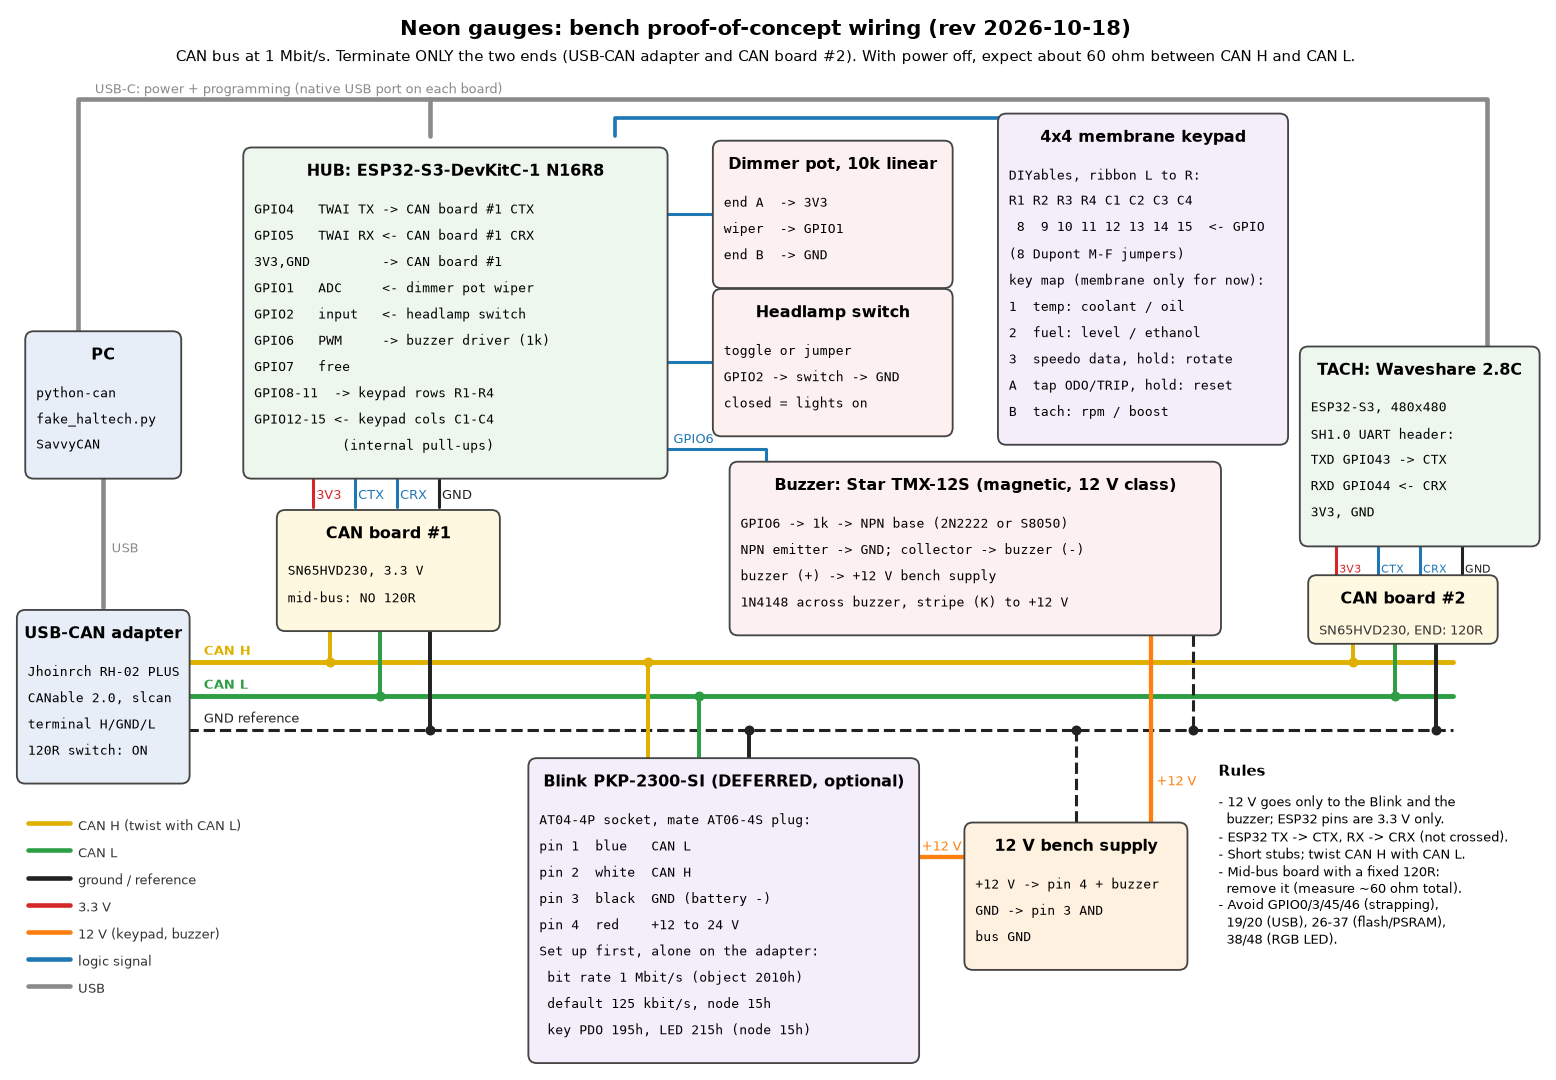
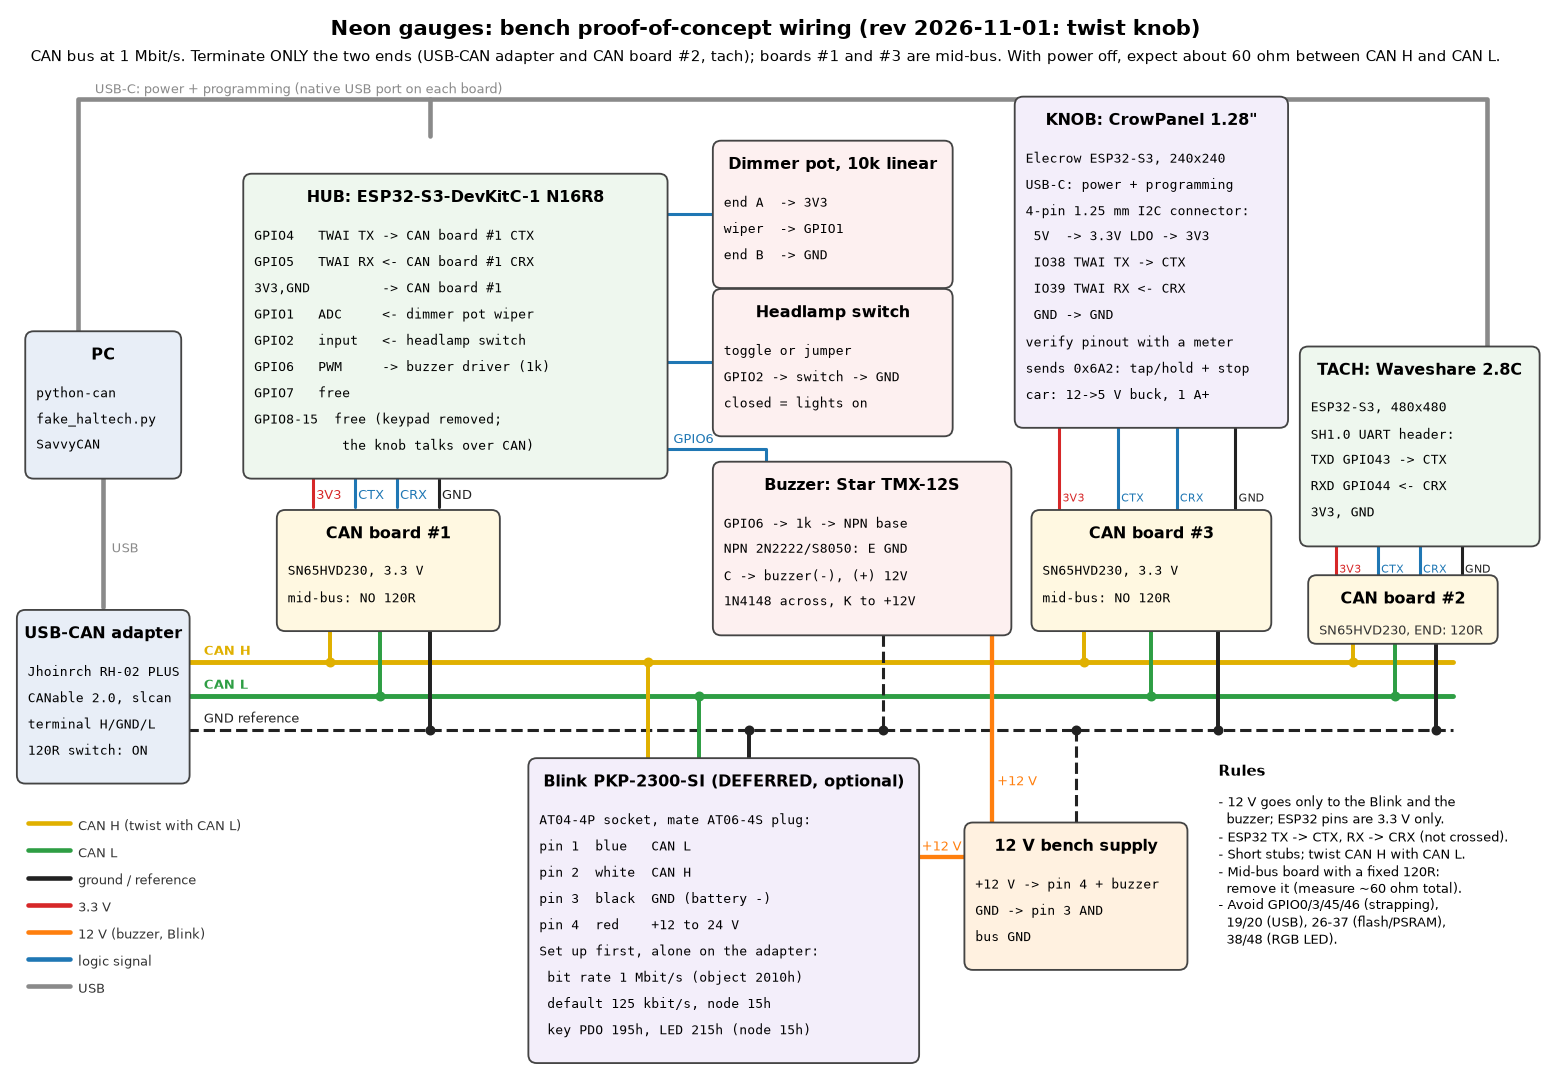
Bench wiring: twist knob (CAN board #3) replaces the membrane keypad

diff --git a/tools/bench/wiring_diagram.py b/tools/bench/wiring_diagram.py
@@ -1,4 +1,5 @@
-"""Bench PoC wiring diagram (rev 2026-10-18): buzzer driver on GPIO6 added; PC + USB-CAN adapter as fake Haltech; hub (ESP32-S3-DevKitC-1) with
+"""Bench PoC wiring diagram (rev 2026-11-01: the CrowPanel 1.28in twist knob replaces the 4x4 membrane keypad; it joins the CAN bus mid-bus
+through CAN board #3 on its I2C connector, GPIO38/39 as TWAI). Earlier (rev 2026-10-18): buzzer driver on GPIO6 added; PC + USB-CAN adapter as fake Haltech; hub (ESP32-S3-DevKitC-1) with
 4x4 membrane keypad (all keys, owner 2026-10-16), dimmer pot, headlamp switch; Blink PKP-2300-SI deferred (optional);
 no VSS loopback: speed and distance now come from the Haltech (0x370, 0x6F6); 2.8C tach at the far end."""
 import matplotlib; matplotlib.use('Agg')
@@ -18,8 +19,8 @@ def wire(pts,c,lw=2.2,ls='-'):
 def dot(x,y,c): ax.plot(x,y,'o',c=c,ms=5.5,zorder=3)
 def lab(x,y,t,c='#333',**k):
     k.setdefault('fontsize',8.2); ax.text(x,y,t,color=c,zorder=4,**k)
-ax.text(90,124,'Neon gauges: bench proof-of-concept wiring (rev 2026-10-18)',ha='center',va='top',fontsize=14,weight='bold')
-ax.text(90,120.3,'CAN bus at 1 Mbit/s. Terminate ONLY the two ends (USB-CAN adapter and CAN board #2). With power off, expect about 60 ohm between CAN H and CAN L.',ha='center',va='top',fontsize=9.5)
+ax.text(90,124,'Neon gauges: bench proof-of-concept wiring (rev 2026-11-01: twist knob)',ha='center',va='top',fontsize=14,weight='bold')
+ax.text(90,120.3,'CAN bus at 1 Mbit/s. Terminate ONLY the two ends (USB-CAN adapter and CAN board #2, tach); boards #1 and #3 are mid-bus. With power off, expect about 60 ohm between CAN H and CAN L.',ha='center',va='top',fontsize=9.5)
 # CAN trunk
 YH,YL,YG=48,44,40; X0,X1=21,172
 wire([(X0,YH),(X1,YH)],C['h'],3.2); wire([(X0,YL),(X1,YL)],C['l'],3.2); wire([(X0,YG),(X1,YG)],C['g'],2,'--')
@@ -34,7 +35,7 @@ wire([(8,87.3),(8,114.5),(50,114.5),(50,110.2)],C['usb'],3); lab(10,115.2,'USB-C
 top=box(28,70,50,'HUB: ESP32-S3-DevKitC-1 N16R8',(
  'GPIO4   TWAI TX -> CAN board #1 CTX','GPIO5   TWAI RX <- CAN board #1 CRX','3V3,GND         -> CAN board #1',
  'GPIO1   ADC     <- dimmer pot wiper','GPIO2   input   <- headlamp switch','GPIO6   PWM     -> buzzer driver (1k)',
- 'GPIO7   free','GPIO8-11  -> keypad rows R1-R4','GPIO12-15 <- keypad cols C1-C4','           (internal pull-ups)'),'#eef7ee')
+ 'GPIO7   free','GPIO8-15  free (keypad removed;','           the knob talks over CAN)'),'#eef7ee')
 # CAN board 1
 box(32,52,26,'CAN board #1',('SN65HVD230, 3.3 V','mid-bus: NO 120R'),'#fff8e1')
 for x,c,t in ((36,'v3','3V3'),(41,'sig','CTX'),(46,'sig','CRX'),(51,'g','GND')):
@@ -44,8 +45,12 @@ for x,y,c in ((38,YH,'h'),(44,YL,'l'),(50,YG,'g')): wire([(x,52),(x,y)],C[c],2.6
 yb=box(84,92.5,28,'Dimmer pot, 10k linear',('end A  -> 3V3','wiper  -> GPIO1','end B  -> GND'),'#fdf0f0')
 box(84,75,28,'Headlamp switch',('toggle or jumper','GPIO2 -> switch -> GND','closed = lights on'),'#fdf0f0')
 wire([(78,101),(84,101)],C['sig'],2); wire([(78,83.5),(84,83.5)],C['sig'],2)
-mtop=box(118,74,34,'4x4 membrane keypad',('DIYables, ribbon L to R:','R1 R2 R3 R4 C1 C2 C3 C4',' 8  9 10 11 12 13 14 15  <- GPIO','(8 Dupont M-F jumpers)','key map (membrane only for now):','1  temp: coolant / oil','2  fuel: level / ethanol','3  speedo data, hold: rotate','A  tap ODO/TRIP, hold: reset','B  tach: rpm / boost'),'#f3eefa')
-wire([(72,110.2),(72,112.3),(135,112.3),(135,mtop)],C['sig'],2.4)
+ktop=box(120,76,32,'KNOB: CrowPanel 1.28"',('Elecrow ESP32-S3, 240x240','USB-C: power + programming','4-pin 1.25 mm I2C connector:',' 5V  -> 3.3V LDO -> 3V3',' IO38 TWAI TX -> CTX',' IO39 TWAI RX <- CRX',' GND -> GND','verify pinout with a meter','sends 0x6A2: tap/hold + stop','car: 12->5 V buck, 1 A+'),'#f3eefa')
+wire([(137,114.5),(137,ktop)],C['usb'],3)
+box(122,52,28,'CAN board #3',('SN65HVD230, 3.3 V','mid-bus: NO 120R'),'#fff8e1')
+for x,c,t in ((125,'v3','3V3'),(132,'sig','CTX'),(139,'sig','CRX'),(146,'g','GND')):
+    wire([(x,76),(x,65.9)],C[c],2); lab(x+0.4,67.0,t,C[c],fontsize=7.2)
+for x,y,c in ((128,YH,'h'),(136,YL,'l'),(144,YG,'g')): wire([(x,52),(x,y)],C[c],2.6); dot(x,y,C[c])
 # tach
 ttop=box(154,62,28,'TACH: Waveshare 2.8C',('ESP32-S3, 480x480','SH1.0 UART header:','TXD GPIO43 -> CTX','RXD GPIO44 <- CRX','3V3, GND'),'#eef7ee')
 wire([(50,114.5),(176,114.5),(176,ttop)],C['usb'],3)
@@ -60,12 +65,12 @@ box(114,12,26,'12 V bench supply',('+12 V -> pin 4 + buzzer','GND -> pin 3 AND',
 wire([(114,25),(108,25)],C['v12'],2.8); lab(108.6,25.8,'+12 V',C['v12'])
 wire([(127,29.2),(127,YG)],C['g'],2,'--'); dot(127,YG,C['g'])
 # buzzer driver (2026-10-18)
-bt=box(86,51.5,58,'Buzzer: Star TMX-12S (magnetic, 12 V class)',('GPIO6 -> 1k -> NPN base (2N2222 or S8050)','NPN emitter -> GND; collector -> buzzer (-)','buzzer (+) -> +12 V bench supply','1N4148 across buzzer, stripe (K) to +12 V'),'#fdf0f0')
+bt=box(84,51.5,35,'Buzzer: Star TMX-12S',('GPIO6 -> 1k -> NPN base','NPN 2N2222/S8050: E GND','C -> buzzer(-), (+) 12V','1N4148 across, K to +12V'),'#fdf0f0')
 wire([(78,73.2),(90,73.2),(90,bt)],C['sig'],2); lab(79,73.9,'GPIO6',C['sig'])
-wire([(136,29.2),(136,51.2)],C['v12'],2.8); lab(136.6,33.5,'+12 V',C['v12'])
-wire([(141,51.2),(141,YG)],C['g'],2,'--'); dot(141,YG,C['g'])
+wire([(117,29.2),(117,51.2)],C['v12'],2.8); lab(117.6,33.5,'+12 V',C['v12'])
+wire([(104,51.2),(104,YG)],C['g'],2,'--'); dot(104,YG,C['g'])
 # legend + rules
-for i,(k,t) in enumerate((('h','CAN H (twist with CAN L)'),('l','CAN L'),('g','ground / reference'),('v3','3.3 V'),('v12','12 V (keypad, buzzer)'),('sig','logic signal'),('usb','USB'))):
+for i,(k,t) in enumerate((('h','CAN H (twist with CAN L)'),('l','CAN L'),('g','ground / reference'),('v3','3.3 V'),('v12','12 V (buzzer, Blink)'),('sig','logic signal'),('usb','USB'))):
     y=29-i*3.2; wire([(2,y),(7,y)],C[k],3); lab(8,y-0.8,t)
 ax.text(144,36,'Rules',fontsize=10,weight='bold',va='top')
 ax.text(144,32.5,'- 12 V goes only to the Blink and the\n  buzzer; ESP32 pins are 3.3 V only.\n- ESP32 TX -> CTX, RX -> CRX (not crossed).\n- Short stubs; twist CAN H with CAN L.\n- Mid-bus board with a fixed 120R:\n  remove it (measure ~60 ohm total).\n- Avoid GPIO0/3/45/46 (strapping),\n  19/20 (USB), 26-37 (flash/PSRAM),\n  38/48 (RGB LED).',fontsize=8.3,va='top',linespacing=1.35)

diff --git a/docs/bench/POC-WIRING.md b/docs/bench/POC-WIRING.md
@@ -1,4 +1,4 @@
-# Bench PoC wiring (rev 2026-10-18)
+# Bench PoC wiring (rev 2026-11-01: twist knob replaces the membrane keypad)
 
 Diagram: `docs/bench/poc_wiring.png` (generated by `tools/bench/wiring_diagram.py`).
 
@@ -8,18 +8,33 @@ Diagram: `docs/bench/poc_wiring.png` (generated by `tools/bench/wiring_diagram.p
 |---|---|---|
 | 4 | TWAI TX | CAN board #1 CTX |
 | 5 | TWAI RX | CAN board #1 CRX |
-| 3V3 / GND | power | CAN board #1, pot ends, keypad common |
+| 3V3 / GND | power | CAN board #1, pot ends |
 | 1 | ADC (dimmer) | bench: pot wiper, pot ends to 3V3 and GND. Car: headlamp-switch dimmer output via a 47k/10k divider (below) |
 | 2 | input, active low (10 kohm pull-up to 3V3) | bench: switch to GND (closed = lights on). Car: PC817 optocoupler from the park-lamp feed (below) |
 | 6 | LEDC PWM out (buzzer) | 1 kohm to the NPN base of the buzzer driver (below) |
 | 7 | input, active low (10 kohm pull-up) | car: ignition sense, PC817 from the RUN/START feed (Power latch, below). Bench: free |
-| 8, 9, 10, 11 | membrane keypad rows R1–R4 | ribbon pins 1–4 |
-| 12, 13, 14, 15 | membrane keypad cols C1–C4, internal pull-ups | ribbon pins 5–8 |
+| 8–15 | free (membrane keypad removed 2026-11-01) | — |
 | USB-C (native) | power + flashing | PC |
 
 Avoid: GPIO0/3/45/46 (strapping), 19/20 (USB), 26–37 (flash/octal PSRAM on N16R8), 38/48 (RGB LED, depends on board revision).
 
-Membrane keypad map (owner 2026-10-16: everything on the membrane pad for now; the Blink is deferred): 1 = temp coolant/oil, 2 = fuel level/ethanol, 3 = speedo data face (tap toggles stock/data face, hold 2 s on the data face rotates the order up, a hold on the stock face does nothing; replaces the overlay idea), A = trip key (tap toggles ODO/TRIP, hold 2 s resets the trip only), B = tach rpm/boost. The rest are spare. Ribbon order R1..R4, C1..C4 is the common layout for these pads; confirm with a meter (press a key, find the row/col pair).
+## Knob: Elecrow CrowPanel 1.28" rotary (replaces the membrane keypad, owner 2026-11-01)
+
+The knob joins the CAN bus mid-bus through **CAN board #3** (SN65HVD230, no 120R), wired to its 4-pin 1.25 mm I2C connector:
+
+| Knob connector | Use | Connects to |
+|---|---|---|
+| 5V | supply out | 5 V to 3.3 V LDO input; the LDO's 3.3 V output feeds CAN board #3 3V3 (the connector carries 5 V, not 3.3 V) |
+| IO38 (SDA) | TWAI TX | CAN board #3 CTX |
+| IO39 (SCL) | TWAI RX | CAN board #3 CRX |
+| GND | ground | CAN board #3 GND, LDO GND |
+
+- **Verify first:** check the connector pinout with a meter before wiring. The order above isn't confirmed from Elecrow.
+- **Bench power:** the knob runs from USB-C, which is also how it's programmed. In the car, a 12-to-5 V buck (1 A or more) feeds it.
+- **What it sends:** knob events go out as 0x6A2 (tap or hold, plus the selected stop); the hub answers with 0x6A1 (`docs/CAN-MAP.md`). The UI is in `docs/BEHAVIOR.md`.
+- **Bus order:** USB-CAN adapter (120R) -> CAN board #1 (hub) -> [Blink, deferred] -> CAN board #3 (knob) -> CAN board #2 (tach, 120R). Power off: about 60 ohm between H and L.
+
+Former membrane keypad map (retired 2026-11-01, kept for reference): (owner 2026-10-16: everything on the membrane pad for now; the Blink is deferred): 1 = temp coolant/oil, 2 = fuel level/ethanol, 3 = speedo data face (tap toggles stock/data face, hold 2 s on the data face rotates the order up, a hold on the stock face does nothing; replaces the overlay idea), A = trip key (tap toggles ODO/TRIP, hold 2 s resets the trip only), B = tach rpm/boost. The rest are spare. Ribbon order R1..R4, C1..C4 is the common layout for these pads; confirm with a meter (press a key, find the row/col pair).
 
 ## Buzzer: Star Micronics TMX-12S (owner part, marked "TMX-12S 96D")
 

diff --git a/docs/PLAN.md b/docs/PLAN.md
@@ -71,6 +71,7 @@ Status: Phase 0 (discovery). Prepared 2026-10-12. Rev 2: decisions log added (se
 | 2026-10-26 | Tach demo startup animation (owner GIF, demo only; the production startup spec in BEHAVIOR.md is unchanged). Power-on only: fade in 0.5 s, 480 x 360 GIF centred at native size (corners clipped by the round screen, not scaled), at 9 s fade to black over 0.5 s, then the face fades up over 1 s. Fades use the backlight. The GIF (7.1 MB, 116 frames, 7.74 s) is embedded in flash and decoded on the board with the AnimatedGIF library. It needs Partition Scheme Custom (sketch `partitions.csv`, 15 MB app); the sketch is 7.7 MB. Compiles; decode speed on the S3 is not yet measured on hardware (the serial log prints frames and ms). |
 | 2026-10-26 | Tach demo startup GIF revised (owner): cut before the white "neon" card. Frames 0-93 kept (ends on the white car "Hi." frame, 6.27 s); a byte-level cut, no re-encode, 5.9 MB. It plays once, then a 0.3 s fade to black and the face fades up over 1 s. This replaces the 9 s timing and the looping. The original is kept as `firmware/tach-demo/startup_original.gif`. Sketch 6.5 MB; compiles. |
 | 2026-10-26 | Tach demo startup GIF: zoomed x1.33 to fill the full 480 px height (owner: no black bars, losing the sides is accepted). Nearest-pixel scaling on the board, centred; about 60 source px cropped per side. |
+| 2026-11-01 | Owner: all demos done. Bench wiring diagram regenerated with the CrowPanel 1.28" twist knob in place of the 4x4 membrane keypad (`tools/bench/wiring_diagram.py`, `docs/bench/poc_wiring.png`, `docs/bench/POC-WIRING.md`). The knob is mid-bus via CAN board #3 on its I2C connector (IO38 TWAI TX, IO39 TWAI RX; connector 5 V -> 3.3 V LDO -> transceiver; pinout to be verified with a meter); USB-C power on the bench. Hub GPIO8-15 freed. |
 
 ### 0.1 Speed source options (in preference order)
 CHOSEN 2026-10-16: option 1, with distance from Haltech Trip Meter 1 (0x6F6) rather than integrating speed.
